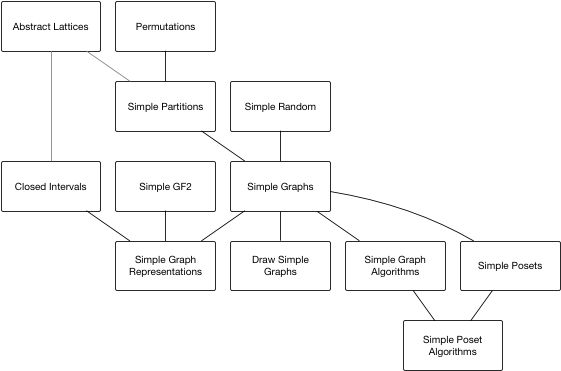
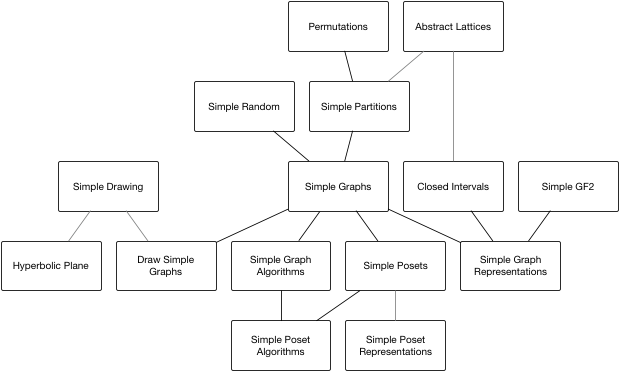
Updates because of updates elsewhere

diff --git a/README.md b/README.md
@@ -38,6 +38,7 @@ arithmetic and extensions for matrices.
 + `SimplePartitions`: Work with set partitions.
 + `BigCombinatorics`: Counting functions.
 + `SimpleRandom`: Create random things.
++ `SimpleDrawing`: Extension to `Plots` for line segments, arcs of circles, etc.
 + `ClosedIntervals`: Defines the `ClosedInterval` data type
 that represent closed intervals of real numbers (or integers).
 Includes some basic functions and operations on closed intervals.
@@ -45,18 +46,19 @@ Includes some basic functions and operations on closed intervals.
 functions/operations for dealing with permutations of
 finite sets of the form {1,2,...,n}.
 + `SimplePartitions`: Partitions of finite sets.
++ `HyperbolicPlane`: Work in the Poincaré disk model.
 + `Counters`: Count things.
 + `Multisets`: Unordered finite collections with repetition allowed.
 + `RingLists`: Lists that wrap around.
 + `ShowSet`: Loading this module overrides the usual way Julia
 displays sets. The usual way Julia displays a `Set` (or `IntSet`)
 looks like this:
-```julia
+```
 julia> A = Set([1,2,3])
 Set([2,3,1])
 ```
 After `using ShowSet` it looks like this:
-```julia
+```
 julia> A = Set([1,2,3])
 {1,2,3}
 ```
@@ -117,7 +119,7 @@ repopulate my `~/.julia`.
 
 Alternatively, I can do this:
 ```
-(v0.7) pkg> dev https://github.com/scheinerman/SimpleWorld.jl.git
+pkg> dev https://github.com/scheinerman/SimpleWorld.jl.git
 
 julia> using SimpleWorld
 
